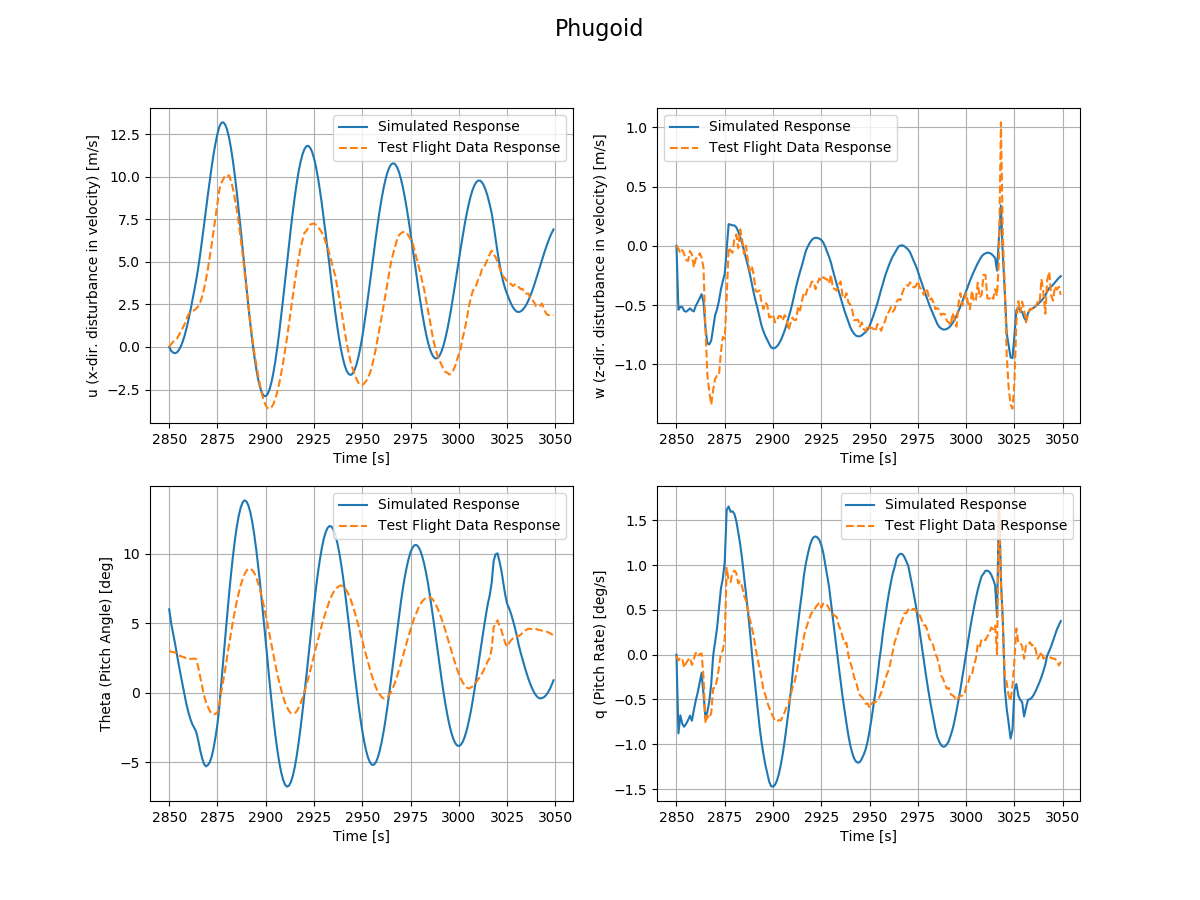
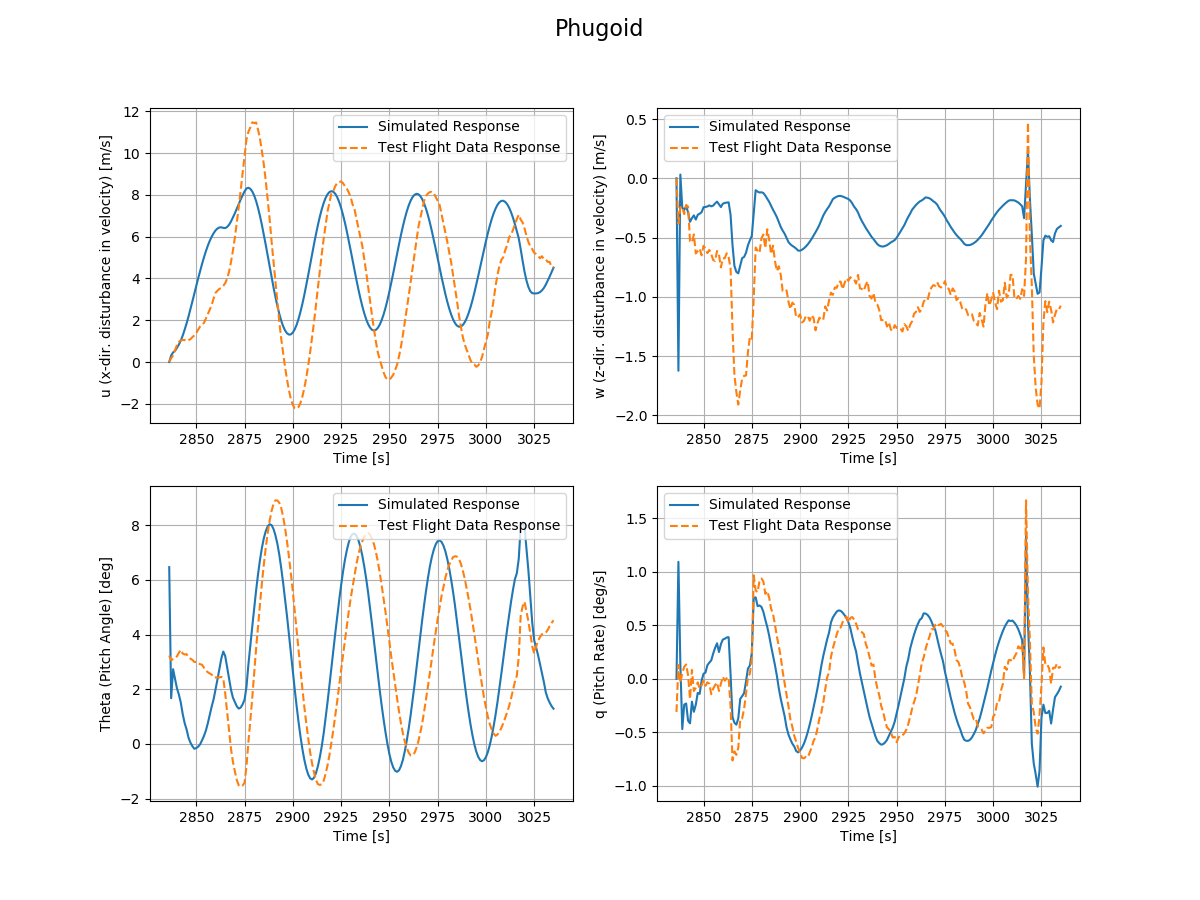
Graphs OG

diff --git a/src/data_processing/statespace/statespace.py b/src/data_processing/statespace/statespace.py
@@ -82,7 +82,7 @@ def maneuver_vals(time_start, time_length, name):
     ax1.grid()
 
     ax2 = charPlot.add_subplot(212)
-    ax2.plot(t, u)
+    ax2.plot(t, u, label='u')
     ax2.plot(t, w, label='w', color='tab:orange',linestyle='--')
     ax2.plot(t, pitch, label='pitch', color='tab:red',linestyle=':')
     ax2.plot(t, q, label='q', color='tab:green',linestyle='-.')
@@ -261,7 +261,7 @@ print(avg_phugoid_error)
 
 V0 = short[7]
 
-mub, muc, m, h, rho = get_flight_conditions(2750)
+mub, muc, m, h, rho = get_flight_conditions(2760)
 mub = float(mub[0])
 muc = float(muc[0])
 m = float(m[0])

diff --git a/src/data_extraction/time_series_tool.py b/src/data_extraction/time_series_tool.py
@@ -4,7 +4,7 @@ from src.data_extraction.data_main import Data
 class TimeSeriesTool:
 
     def __init__(self):
-        self.data = Data(r'RefData.mat', 'StatClCd.csv', 'StatElev.csv')
+        self.data = Data(r'FlightData.mat', 'StatClCd.csv', 'StatElev.csv')
         self.mdat = self.data.get_mat().get_data()
         self.pdat = self.data.get_pfd()
 
